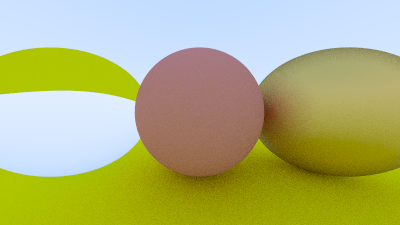
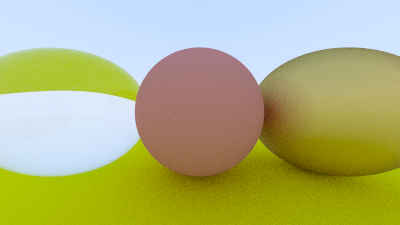
9.4 done

Changed region(s): [[0.0, 0.1867, 0.36, 0.4356], [0.0, 0.6533, 0.33, 0.8089], [0.33, 0.5911, 0.36, 0.6533]]

diff --git a/src/material.rs b/src/material.rs
@@ -77,11 +77,12 @@ impl Material for Dielectric {
         let cos_theta = -unit_direction.dot(&hit.normal);
         let sin_theta = (1.0 - cos_theta * cos_theta).sqrt();
 
-        let scatter_direction = if (ratio * sin_theta) > 1.0 {
-            reflect(unit_direction, &hit.normal)
-        } else {
-            refract(unit_direction, &hit.normal, ratio)
-        };
+        let scatter_direction =
+            if (ratio * sin_theta > 1.0) || reflectance(cos_theta, ratio) > rand::random() {
+                reflect(unit_direction, &hit.normal)
+            } else {
+                refract(unit_direction, &hit.normal, ratio)
+            };
 
         let out_ray = Ray::new(hit.impact_point, scatter_direction);
         Some(Reflection {
@@ -100,4 +101,9 @@ fn refract(incident: Vec3, normal: &Vec3, ratio: f64) -> Vec3 {
     let r_out_perp = ratio * (incident + cos_theta * *normal);
     let r_out_par = -(1.0 - r_out_perp.dot(&r_out_perp)).abs().sqrt() * *normal;
     r_out_par + r_out_perp
+}
+
+fn reflectance(cos_theta: f64, n: f64) -> f64 {
+    let r0 = f64::powi((1.0 - n) / (1.0 + n), 2);
+    r0 + (1.0 - r0) * f64::powi(1.0 - cos_theta, 5)
 }
